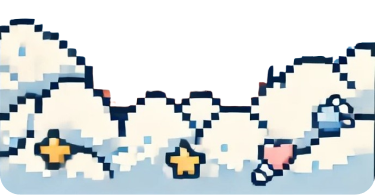
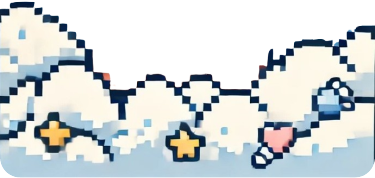
[style] LoadingPage 모바일 뷰 스타일 적용

diff --git a/src/components/loading/Explaination.js b/src/components/loading/Explaination.js
@@ -9,15 +9,16 @@ import cloudIcon from "../../lib/images/CloudIcon.png";
 import moonIcon from "../../lib/images/MoonIcon.png";
 import * as API from "../../lib/api/api";
 import SubExplain from "./SubExplaination";
+import { isMobile } from "react-device-detect";
 
 const ExplainationContainer = styled.div``;
 
-const AnimationContainer = styled.div`
+const AnimationContainer = styled.div` 
   height: 100%;
   display: flex;
   flex-direction: column;
   align-items: center;
-  margin-top: 16dvh;
+  margin-top: ${isMobile ? "8dvh" : "18dvh"};
   gap: 10px;
 `;
 
@@ -43,8 +44,7 @@ const MoonIcon = styled.img`
 
 const BottomBackgroundContainer = styled.div`
   display: flex;
-  align-items: flex-end;
-  height: 29.5dvh;
+  height: 29dvh;
   width: 100%;
 `;
 const BottomCloud = styled.img`

diff --git a/src/pages/StartPage.js b/src/pages/StartPage.js
@@ -4,7 +4,7 @@ import Start from '../components/start/Start';
 const StartPage = () => {
     return (
         <PhoneFrame>
-            <Start/>
+            <Start />
         </PhoneFrame>
     );
 };
